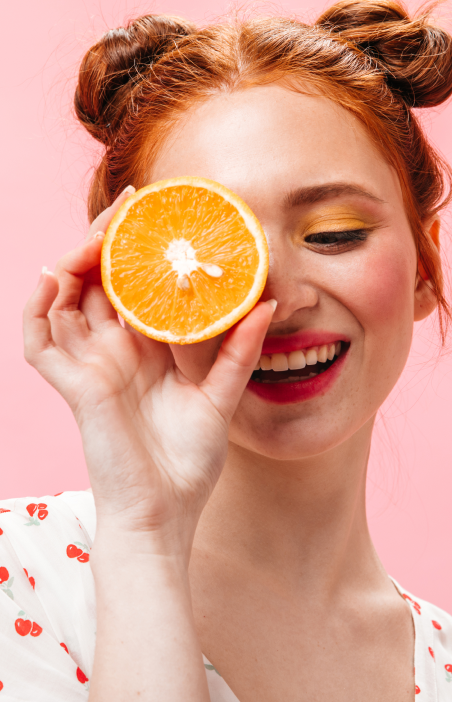
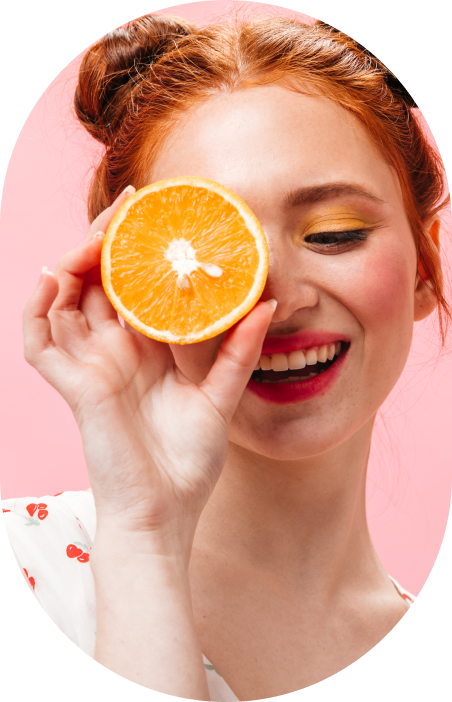
commit 12 hero

diff --git a/partials/hero.html b/partials/hero.html
@@ -18,6 +18,45 @@
         </h1>
         <div class="button-shopnow">
           <a class="text-shopnow" href="#Fruits">shop now</a>
+          <svg
+            class="vector"
+            width="486"
+            height="742"
+            viewBox="0 0 486 742"
+            fill="none"
+            xmlns="http://www.w3.org/2000/svg"
+          >
+            <mask id="path-1-inside-1_5503_35" fill="white">
+              <path
+                fill-rule="evenodd"
+                clip-rule="evenodd"
+                d="M485 499V243C485 109.347 376.653 1 243 1C109.347 1 1 109.347 1 243V499C1 632.653 109.347 741 243 741C376.653 741 485 632.653 485 499ZM243 0C108.795 0 0 108.795 0 243V499C0 633.205 108.795 742 243 742C377.205 742 486 633.205 486 499V243C486 108.795 377.205 0 243 0Z"
+              />
+            </mask>
+            <path
+              d="M486 499V243H484V499H486ZM486 243C486 108.795 377.205 0 243 0V2C376.101 2 484 109.899 484 243H486ZM243 0C108.795 0 0 108.795 0 243H2C2 109.899 109.899 2 243 2V0ZM0 243V499H2V243H0ZM0 499C0 633.205 108.795 742 243 742V740C109.899 740 2 632.101 2 499H0ZM243 742C377.205 742 486 633.205 486 499H484C484 632.101 376.101 740 243 740V742ZM243 -1C108.243 -1 -1 108.243 -1 243H1C1 109.347 109.347 1 243 1V-1ZM-1 243V499H1V243H-1ZM-1 499C-1 633.757 108.243 743 243 743V741C109.347 741 1 632.653 1 499H-1ZM243 743C377.757 743 487 633.757 487 499H485C485 632.653 376.653 741 243 741V743ZM487 499V243H485V499H487ZM487 243C487 108.243 377.757 -1 243 -1V1C376.653 1 485 109.347 485 243H487Z"
+              fill="url(#paint0_linear_5503_35)"
+              mask="url(#path-1-inside-1_5503_35)"
+            />
+            <defs>
+              <linearGradient
+                id="paint0_linear_5503_35"
+                x1="258"
+                y1="755"
+                x2="257"
+                y2="171"
+                gradientUnits="userSpaceOnUse"
+              >
+                <stop stop-color="white" />
+                <stop
+                  offset="0.411317"
+                  stop-color="white"
+                  stop-opacity="0.441769"
+                />
+                <stop offset="1" stop-color="white" stop-opacity="0" />
+              </linearGradient>
+            </defs>
+          </svg>
         </div>
         <div class="hero-wraper-box">
           <div class="wraper-left-side">

diff --git a/css/hero.css b/css/hero.css
@@ -224,6 +224,31 @@ body {
   }
 }
 
+/* .vector {
+  position: absolute;
+  bottom: 26px;
+  left: 50%;
+  transform: translateX(-50%);
+  z-index: -1;
+}
+@media only screen and (min-width: 768px) {
+  .vector {
+    position: absolute;
+    bottom: 15px;
+    left: 50%;
+    transform: translateX(-50%);
+    z-index: -1;
+  }
+}
+@media only screen and (min-width: 1280px) {
+  .vector {
+    position: absolute;
+    bottom: 10px;
+    left: 50%;
+    transform: translateX(-50%);
+    z-index: -1;
+  }
+} */
 @media only screen and (max-width: 334px) {
   .button-shopnow::after {
     background-image: url(../img/mobileyoung.png);
@@ -249,6 +274,16 @@ body {
     }
   }
 }
+@media only screen and (min-width: 768px) {
+  .vector {
+    position: absolute;
+    bottom: 26px;
+    left: 50%;
+    transform: translateX(-50%);
+    z-index: -1;
+  }
+}
+
 @media only screen and (min-width: 1280px) {
   .button-shopnow::after {
     background-image: url(../img/desktopyoung.png);
